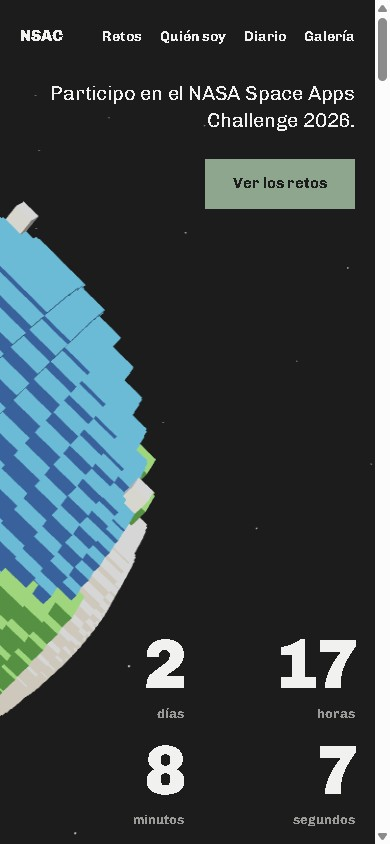
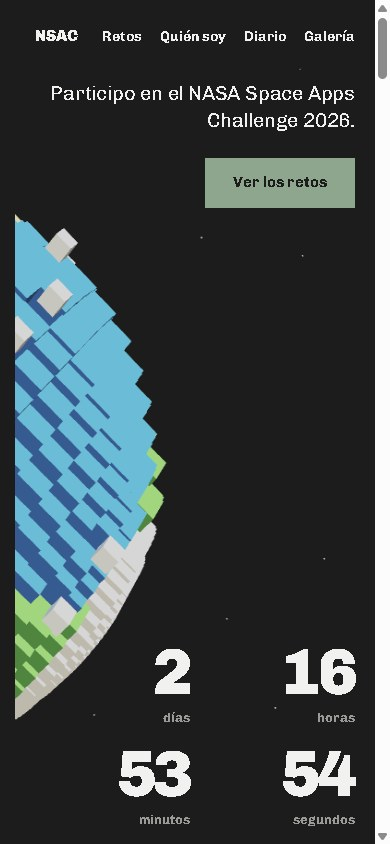
diario: space apps connect abierto y hilo de elay puej publicado ahi

diff --git a/index.html b/index.html
@@ -4,7 +4,7 @@
 <meta charset="utf-8">
 <meta name="viewport" content="width=device-width, initial-scale=1.0">
 <title>NSAC — NASA Space Apps Challenge 2026 | Alejandro Sosa</title>
-<meta name="description" content="Participo en el NASA Space Apps Challenge 2026 desde Santa Cruz de la Sierra. Faltan 2 días y 17 horas para el inicio: sábado 14 de noviembre, 9:00 en Bolivia. Cuenta regresiva en vivo, los 14 retos oficiales y el diario del hackathon.">
+<meta name="description" content="Participo en el NASA Space Apps Challenge 2026 desde Santa Cruz de la Sierra. Faltan 2 días y 16 horas para el inicio: sábado 14 de noviembre, 9:00 en Bolivia. Cuenta regresiva en vivo, los 14 retos oficiales y el diario del hackathon.">
 <meta name="author" content="Alejandro Sosa Briceño">
 <meta name="robots" content="index, follow, max-image-preview:large">
 <link rel="canonical" href="https://asosab.github.io/NSAC/">
@@ -13,7 +13,7 @@
 <meta property="og:type" content="website">
 <meta property="og:site_name" content="NSAC — NASA Space Apps 2026">
 <meta property="og:title" content="NSAC — NASA Space Apps Challenge 2026">
-<meta property="og:description" content="Faltan 2 días y 17 horas para el hackathon más grande del mundo: empieza el sábado 14 de noviembre a las 9:00 (hora de Bolivia). Cuenta regresiva en vivo, los 14 retos oficiales y el diario del evento.">
+<meta property="og:description" content="Faltan 2 días y 16 horas para el hackathon más grande del mundo: empieza el sábado 14 de noviembre a las 9:00 (hora de Bolivia). Cuenta regresiva en vivo, los 14 retos oficiales y el diario del evento.">
 <meta property="og:url" content="https://asosab.github.io/NSAC/">
 <meta property="og:image" content="https://asosab.github.io/NSAC/assets/img/og-cover.jpg">
 <meta property="og:image:width" content="390">
@@ -26,7 +26,7 @@
 <meta name="twitter:site" content="@asosab">
 <meta name="twitter:creator" content="@asosab">
 <meta name="twitter:title" content="NSAC — NASA Space Apps Challenge 2026">
-<meta name="twitter:description" content="Faltan 2 días y 17 horas: empieza el sábado 14 a las 9:00, hora de Bolivia. Cuenta regresiva en vivo, los 14 retos oficiales y el diario del hackathon.">
+<meta name="twitter:description" content="Faltan 2 días y 16 horas: empieza el sábado 14 a las 9:00, hora de Bolivia. Cuenta regresiva en vivo, los 14 retos oficiales y el diario del hackathon.">
 <meta name="twitter:image" content="https://asosab.github.io/NSAC/assets/img/og-cover.jpg">
 <meta name="twitter:image:alt" content="Planeta Tierra de bloques estilo Minecraft a la izquierda y cuenta regresiva gigante a la derecha.">
 

diff --git a/_posts/2026-11-11-space-apps-connect.md b/_posts/2026-11-11-space-apps-connect.md
@@ -1,0 +1,15 @@
+---
+layout: post
+title: "Space Apps Connect"
+description: "La organización abrió la comunidad oficial del hackathon: un foro de GitHub para buscar equipo, resolver dudas de los retos y pedir ayuda con la entrega"
+---
+
+La página del evento amaneció con un aviso: «Space Apps Connect is now open!». El enlace lleva a un repositorio de GitHub, [nasa/spaceapps](https://github.com/nasa/spaceapps): un README, mil estrellas y nada de código. La comunidad oficial del hackathon vive en la pestaña Discussions.
+
+Adentro hay categorías para casi todo lo que hace falta esta semana: buscar equipo, dudas sobre los retos, ayuda con la entrega del proyecto, anuncios de la organización y ofertas de herramientas para participantes. También un canal para el «Universal Event», la modalidad para quienes participan sin sede local. Para escribir hay que estar inscrito en el hackathon.
+
+![El foro de Space Apps Connect en GitHub Discussions; el hilo de elay puej buscando gente aparece primero en la lista]({{ '/assets/img/diario/2026-11-11-84825431.jpg' | relative_url }})
+
+Ya publiqué ahí: un hilo en «!Find A Team» buscando diseñadores, artistas y gente que sepa de agricultura para elay puej en Santa Cruz. Cuando tomé la captura era el primero de la lista. Veremos si el foro de la NASA recluta mejor que el mural guitarrista.
+
+El detalle que me gusta: el primer hilo con respuesta del equipo organizador es alguien reportando un enlace roto en la propia página del evento. Cuando tu comunidad vive en GitHub, hasta la web rota se reporta como un issue.

diff --git a/docs/log/2026-11-11.md b/docs/log/2026-11-11.md
@@ -57,3 +57,22 @@ tags: [log]
   descriptions seguían correctas a «2 días y 17 horas».
 - Archivo suelto `acm-align.png` quedó sin trackear en la raíz (no es
   de esta sesión).
+
+## Post: Space Apps Connect
+
+- Anuncio en la página del evento: «Space Apps Connect is now open!» →
+  github.com/nasa/spaceapps. Es la comunidad oficial del hackathon: un
+  repo con solo README cuya vida está en la pestaña Discussions
+  (categorías: !Find A Team, Announcements, Challenges, General,
+  Global Offers, Project Submission Help, Universal Event).
+  Participar exige estar inscrito en el hackathon.
+- El usuario ya tiene un hilo ahí: «Field Shift team looking for
+  designers, artists and agriculture people in SCS, Bolivia».
+- Post `_posts/2026-11-11-space-apps-connect.md` con captura del foro
+  (1280×800 vía Playwright MCP; el hilo de asosab salía primero) como
+  `assets/img/diario/2026-11-11-84825431.jpg` (sha1[:8]).
+- `og-cover.jpg` e `imagen/nsac.jpg` regenerados (390×844, mismo
+  procedimiento que antes). Descriptions de `index.html` pasadas a
+  «2 días y 16 horas», la cuenta ya bajó de 17.
+- `acm-align.png` sigue suelto y sin trackear en la raíz; no se
+  commitea.
